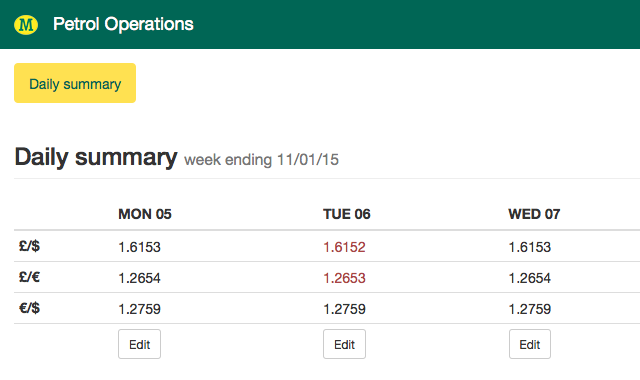
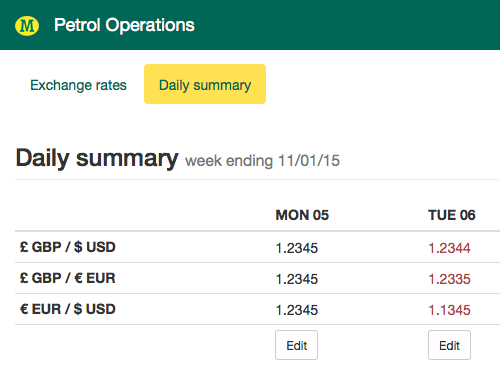
fx alerts

diff --git a/market-daily-fx-missing.html b/market-daily-fx-missing.html
@@ -31,30 +31,31 @@
 	    </div>
 		<div class="container-fluid">
 			<div class="row">
-				<div class="col-xs-12 col-md-12 col-lg-12">
-					<h3 class="page-header">Exchange rates <small>Mon 05 Jan 2015</small></h3>
-					<div class="alert alert-danger"><p>Please enter exchange rates in the format "0.0000".</p></div>
-					<form role="form">
-						<div class="row">
-						  <div class="form-group form-group-sm col-xs-4 col-sm-2 has-error">
-							<label class="control-label">&pound; GBP / &dollar; USD</label>
-						    <input type="text" class="form-control" value="1*2345" maxlength="6">				
-						  </div>
-						  <div class="form-group form-group-sm col-xs-4 col-sm-2">
-							<label class="control-label">&pound; GBP / &euro; EUR</label>
-						    <input type="text" class="form-control" value="1.2345">					
-						  </div>
-						  <div class="form-group form-group-sm col-xs-4 col-sm-2">
-							<label class="control-label">&euro; EUR / &dollar; USD</label>
-						    <input type="text" class="form-control" value="1.2345" maxlength="6">				
-						  </div>
-					  </div>
-					  <a class="btn btn-primary" href="market-fx.html">Save exchange rates</a>
-					</form>													
+				<div class="col-xs-12">
+					<ul class="nav nav-pills">
+						<li><a href="fx-daily.html">Exchange rates</a></li>	
+						<li class="active"><a href="market-daily-fx-edit.html">Daily summary</a></li>					
+										
+					</ul>
 				</div>
 			</div>	
 		</div>
-	
+		<div class="container-fluid">
+			<div class="row">
+				<div class="col-xs-12 col-md-12 col-lg-12">
+					<h3 class="page-header">Daily summary <small>week ending 11/01/15</small></h3>					
+					<table class="table table-hover table-condensed">
+					  <thead><tr><th></th><th>MON 05</th><th>TUE 06</th><th>WED 07</th><th>THU 08</th><th>FRI 09</th><th>11/01/15</th></tr></thead>
+						<tbody>
+							<tr><th>&pound; GBP / &dollar; USD</th><td>&mdash;</td><td>1.2344</td><td>&mdash;</td><td>&mdash;</td><td>&mdash;</td><td>&mdash;</td></tr>
+							<tr><th>&pound; GBP / &euro; EUR</th><td>&mdash;</td><td>1.2335</td><td>&mdash;</td><td>&mdash;</td><td>&mdash;</td><td>&mdash;</td></tr>
+							<tr><th>&euro; EUR / &dollar; USD</th><td>&mdash;</td><td>1.1345</td><td>&mdash;</td><td>&mdash;</td><td>&mdash;</td><td>&mdash;</td></tr>
+							<tr><td></td><td><a href="fx-daily-added.html"class="btn btn-primary btn-sm">Add</a></td><td><a href="fx-daily-added.html"class="btn btn-default btn-sm">Edit</a></td><td>&mdash;</td><td>&mdash;</td><td>&mdash;</td><td>&mdash;</td></tr>
+						</tbody>
+					</table>
+				</div>
+			</div>	
+		</div>
 
 
     <!-- Bootstrap core JavaScript

diff --git a/fx-error-sameday.html b/fx-error-sameday.html
@@ -33,20 +33,20 @@
 			<div class="row">
 				<div class="col-xs-12 col-md-12 col-lg-12">
 					<h3 class="page-header">Exchange rates <small>Mon 05 Jan 2015</small></h3>
-					<div class="alert alert-danger"><p>Please enter exchange rates in the format "0.0000".</p></div>
+					<div class="alert alert-danger"><p>Exchange rates cannot be added more than once for the same week day.</p></div>
 					<form role="form">
 						<div class="row">
-						  <div class="form-group form-group-sm col-xs-4 col-sm-2 has-error">
+						  <div class="form-group form-group-sm col-xs-4 col-sm-2">
 							<label class="control-label">&pound; GBP / &dollar; USD</label>
-						    <input type="text" class="form-control" value="1*2345" maxlength="6">				
+						    <input type="text" class="form-control">				
 						  </div>
 						  <div class="form-group form-group-sm col-xs-4 col-sm-2">
 							<label class="control-label">&pound; GBP / &euro; EUR</label>
-						    <input type="text" class="form-control" value="1.2345">					
+						    <input type="text" class="form-control">					
 						  </div>
 						  <div class="form-group form-group-sm col-xs-4 col-sm-2">
 							<label class="control-label">&euro; EUR / &dollar; USD</label>
-						    <input type="text" class="form-control" value="1.2345" maxlength="6">				
+						    <input type="text" class="form-control">				
 						  </div>
 					  </div>
 					  <a class="btn btn-primary" href="market-fx.html">Save exchange rates</a>

diff --git a/fx-warning-decimals.html b/fx-warning-decimals.html
@@ -33,18 +33,18 @@
 			<div class="row">
 				<div class="col-xs-12 col-md-12 col-lg-12">
 					<h3 class="page-header">Exchange rates <small>Mon 05 Jan 2015</small></h3>
-					<div class="alert alert-danger"><p>Please enter exchange rates in the format "0.0000".</p></div>
+					<div class="alert alert-warning"><p>Exchange rates will be rounded to 4 decimal places. Please double-check the values you have entered.</p></div>
 					<form role="form">
 						<div class="row">
-						  <div class="form-group form-group-sm col-xs-4 col-sm-2 has-error">
+						  <div class="form-group col-xs-4 col-sm-2 has-warning">
 							<label class="control-label">&pound; GBP / &dollar; USD</label>
-						    <input type="text" class="form-control" value="1*2345" maxlength="6">				
+						    <input type="text" class="form-control" value="1.234567">				
 						  </div>
-						  <div class="form-group form-group-sm col-xs-4 col-sm-2">
+						  <div class="form-group col-xs-4 col-sm-2">
 							<label class="control-label">&pound; GBP / &euro; EUR</label>
 						    <input type="text" class="form-control" value="1.2345">					
 						  </div>
-						  <div class="form-group form-group-sm col-xs-4 col-sm-2">
+						  <div class="form-group col-xs-4 col-sm-2">
 							<label class="control-label">&euro; EUR / &dollar; USD</label>
 						    <input type="text" class="form-control" value="1.2345" maxlength="6">				
 						  </div>
